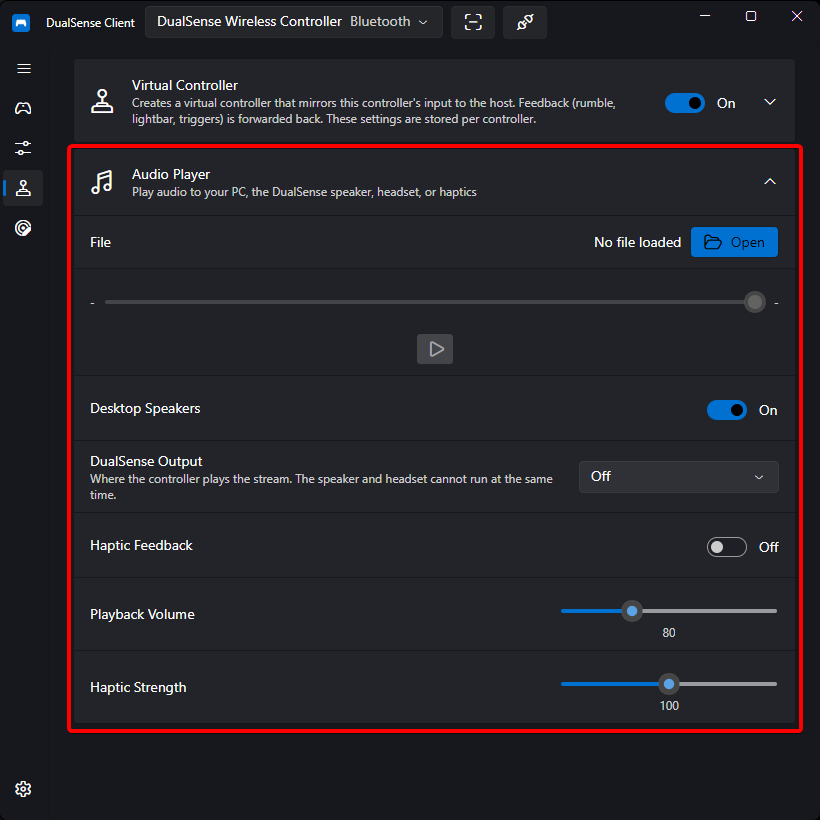
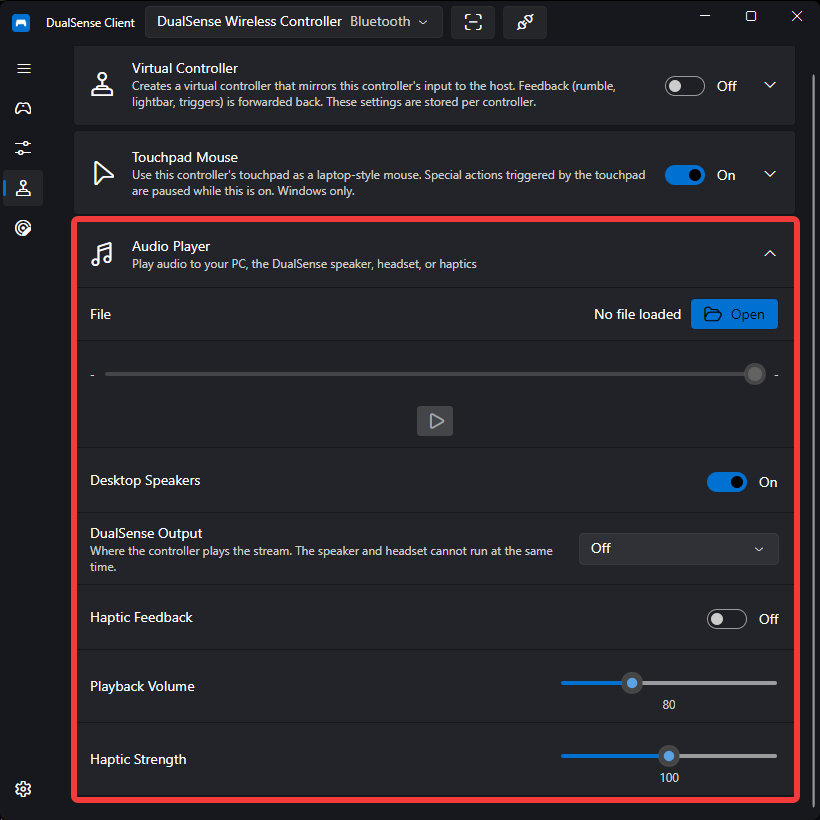
feat(emulation): Touchpad mouse settings UI and documentation
- Add a Windows-only expander with enable, pointer speed, scroll speed,
and natural scrolling, plus a short gesture hint.
- Read and write the selected controller's stored settings; save toggles
immediately and debounce slider writes, flushing on unload or controller
change.
- Clamp hand-edited speeds and refresh the bindings when the selected
controller changes.
- Add the localization strings, the mkdocs guide and nav entry, README
mention, and the Emulation-page screenshots.

diff --git a/source/DualSenseClient.GUI/ViewModels/Pages/EmulationPageViewModel.cs b/source/DualSenseClient.GUI/ViewModels/Pages/EmulationPageViewModel.cs
@@ -3,6 +3,7 @@ using System.Collections.Generic;
 using System.Collections.ObjectModel;
 using System.ComponentModel;
 using System.Linq;
+using Avalonia.Threading;
 using CommunityToolkit.Mvvm.ComponentModel;
 using CommunityToolkit.Mvvm.Input;
 using Microsoft.Extensions.DependencyInjection;
@@ -635,6 +636,196 @@ public partial class EmulationPageViewModel : ObservableObject
             return EmulationService.IsSupported
                    && (CurrentDualSenseDevice is not { } device || !_emulation.GetStatus(device).IsCreating);
         }
+    }
+
+    // ── Touchpad mouse ──────────────────────────────────────────
+
+    /// <summary>
+    /// Debounced touchpad mouse save timer: each speed slider change restarts it and the
+    /// save happens only after changes stop.
+    /// </summary>
+    private readonly DispatcherTimer _touchpadMouseSaveTimer;
+
+    /// <summary>
+    /// Whether a debounced touchpad mouse save is waiting for the timer to elapse.
+    /// </summary>
+    private bool _touchpadMouseSavePending;
+
+    /// <summary>
+    /// The touchpad-as-a-mouse settings stored for the selected controller. The returned
+    /// instance is the live stored object; mutating it and calling
+    /// <see cref="ControllerInfoService.SaveTouchpadMouseSettings(ControllerKey, TouchpadMouseSettings)"/>
+    /// persists the change.
+    /// </summary>
+    private TouchpadMouseSettings GetTouchpadMouseSettings()
+        => _controllerService.GetTouchpadMouseSettings(CurrentKey);
+
+    /// <summary>
+    /// Clamps a stored speed into the UI range and falls back to 1.0 for NaN, which
+    /// hand-edited settings can contain.
+    /// </summary>
+    private static double ClampTouchpadMouseSpeed(double value)
+        => double.IsNaN(value) ? 1.0 : Math.Clamp(value, 0.25, 3.0);
+
+    /// <summary>
+    /// Whether the touchpad mouse expander is offered: the feature is Windows-only and
+    /// needs a selected controller.
+    /// </summary>
+    public bool IsTouchpadMouseVisible
+    {
+        get
+        {
+            return HasDevice && OperatingSystem.IsWindows();
+        }
+    }
+
+    /// <summary>
+    /// Whether the selected controller's touchpad drives the pointer (two-way, persisted
+    /// immediately). Also enables the speed and scrolling options.
+    /// </summary>
+    public bool IsTouchpadMouseEnabled
+    {
+        get
+        {
+            return HasDevice && GetTouchpadMouseSettings().Enabled;
+        }
+        set
+        {
+            if (!HasDevice)
+            {
+                return;
+            }
+
+            TouchpadMouseSettings settings = GetTouchpadMouseSettings();
+            if (settings.Enabled == value)
+            {
+                return;
+            }
+
+            _log.Info($"Setting touchpad mouse of {CurrentMac} to {value}");
+            settings.Enabled = value;
+            _controllerService.SaveTouchpadMouseSettings(CurrentKey, settings);
+            OnPropertyChanged();
+            OnPropertyChanged(nameof(IsTouchpadMouseOptionsEnabled));
+        }
+    }
+
+    /// <summary>
+    /// Whether the pointer and scroll options may be changed: the touchpad mouse must be
+    /// enabled.
+    /// </summary>
+    public bool IsTouchpadMouseOptionsEnabled
+    {
+        get
+        {
+            return IsTouchpadMouseEnabled;
+        }
+    }
+
+    /// <summary>
+    /// The pointer speed multiplier of the selected controller (UI range 0.25–3.0,
+    /// persisted after the debounce). Writes the live settings and schedules the save.
+    /// </summary>
+    public double TouchpadMousePointerSpeed
+    {
+        get
+        {
+            return HasDevice ? ClampTouchpadMouseSpeed(GetTouchpadMouseSettings().PointerSpeed) : 1.0;
+        }
+        set
+        {
+            if (!HasDevice)
+            {
+                return;
+            }
+
+            GetTouchpadMouseSettings().PointerSpeed = ClampTouchpadMouseSpeed(value);
+            OnPropertyChanged();
+            ScheduleTouchpadMouseSave();
+        }
+    }
+
+    /// <summary>
+    /// The scroll speed multiplier of the selected controller (UI range 0.25–3.0,
+    /// persisted after the debounce). Writes the live settings and schedules the save.
+    /// </summary>
+    public double TouchpadMouseScrollSpeed
+    {
+        get
+        {
+            return HasDevice ? ClampTouchpadMouseSpeed(GetTouchpadMouseSettings().ScrollSpeed) : 1.0;
+        }
+        set
+        {
+            if (!HasDevice)
+            {
+                return;
+            }
+
+            GetTouchpadMouseSettings().ScrollSpeed = ClampTouchpadMouseSpeed(value);
+            OnPropertyChanged();
+            ScheduleTouchpadMouseSave();
+        }
+    }
+
+    /// <summary>
+    /// Whether two-finger scrolling follows the natural (touch) direction (two-way,
+    /// persisted immediately).
+    /// </summary>
+    public bool TouchpadMouseNaturalScrolling
+    {
+        get
+        {
+            return HasDevice && GetTouchpadMouseSettings().NaturalScrolling;
+        }
+        set
+        {
+            if (!HasDevice)
+            {
+                return;
+            }
+
+            TouchpadMouseSettings settings = GetTouchpadMouseSettings();
+            if (settings.NaturalScrolling == value)
+            {
+                return;
+            }
+
+            settings.NaturalScrolling = value;
+            _controllerService.SaveTouchpadMouseSettings(CurrentKey, settings);
+            OnPropertyChanged();
+        }
+    }
+
+    /// <summary>
+    /// Restarts the debounce timer so the pending touchpad mouse save is delayed until
+    /// slider changes stop, avoiding a disk write per drag step.
+    /// </summary>
+    private void ScheduleTouchpadMouseSave()
+    {
+        _touchpadMouseSavePending = true;
+        _touchpadMouseSaveTimer.Stop();
+        _touchpadMouseSaveTimer.Start();
+    }
+
+    /// <summary>
+    /// Persists a pending debounced touchpad mouse save immediately, e.g. when the page
+    /// unloads or the selected controller changes.
+    /// </summary>
+    public void FlushPendingTouchpadMouseSave()
+    {
+        if (!_touchpadMouseSavePending)
+        {
+            return;
+        }
+
+        if (HasDevice)
+        {
+            _controllerService.SaveTouchpadMouseSettings(CurrentKey, GetTouchpadMouseSettings());
+        }
+
+        _touchpadMouseSaveTimer.Stop();
+        _touchpadMouseSavePending = false;
     }
 
     // ── Button remapping ────────────────────────────────────────
@@ -1429,6 +1620,11 @@ public partial class EmulationPageViewModel : ObservableObject
             Skins.Add(skin);
         }
 
+        _touchpadMouseSaveTimer = new DispatcherTimer
+        {
+            Interval = TimeSpan.FromMilliseconds(400)
+        };
+        _touchpadMouseSaveTimer.Tick += (_, _) => FlushPendingTouchpadMouseSave();
         _emulation.StateChanged += OnEmulationStateChanged;
         _mainViewModel.PropertyChanged += OnMainViewModelPropertyChanged;
         UpdateDevice();
@@ -1463,6 +1659,7 @@ public partial class EmulationPageViewModel : ObservableObject
     /// </summary>
     private void UpdateDevice()
     {
+        FlushPendingTouchpadMouseSave();
         _previousItem?.Dispose();
         _previousMonitorState?.Dispose();
 
@@ -1511,5 +1708,11 @@ public partial class EmulationPageViewModel : ObservableObject
 
         OnPropertyChanged(nameof(EmulationStatusText));
         OnPropertyChanged(nameof(CanChangeEmulation));
+        OnPropertyChanged(nameof(IsTouchpadMouseVisible));
+        OnPropertyChanged(nameof(IsTouchpadMouseEnabled));
+        OnPropertyChanged(nameof(IsTouchpadMouseOptionsEnabled));
+        OnPropertyChanged(nameof(TouchpadMousePointerSpeed));
+        OnPropertyChanged(nameof(TouchpadMouseScrollSpeed));
+        OnPropertyChanged(nameof(TouchpadMouseNaturalScrolling));
     }
 }

diff --git a/source/DualSenseClient.GUI/Views/Pages/EmulationPage.axaml.cs b/source/DualSenseClient.GUI/Views/Pages/EmulationPage.axaml.cs
@@ -29,6 +29,19 @@ public partial class EmulationPage : UserControl
     {
         InitializeComponent();
         DataContext = App.Services.GetRequiredService<EmulationPageViewModel>();
+        Unloaded += OnUnloaded;
+    }
+
+    /// <summary>
+    /// Flushes a pending debounced touchpad mouse save when the page is navigated away
+    /// from before the debounce timer elapses.
+    /// </summary>
+    private void OnUnloaded(object? sender, RoutedEventArgs e)
+    {
+        if (DataContext is EmulationPageViewModel viewModel)
+        {
+            viewModel.FlushPendingTouchpadMouseSave();
+        }
     }
 
     /// <summary>

diff --git a/docs/guides/touchpad-mouse.md b/docs/guides/touchpad-mouse.md
@@ -1,0 +1,45 @@
+# Touchpad Mouse
+
+The DualSense touchpad can double as a **Windows mouse**, turning the controller into a laptop-style trackpad for browsing, media apps, and launchers when no mouse is within reach — especially handy when you are using the PC from a couch. One finger moves the pointer, taps click, and two-finger gestures right-click and scroll.
+
+!!! note
+    Touchpad Mouse is **Windows-only**. On Linux the section is hidden and the feature stays inactive; the desktop already receives the controller's touchpad through the system input stack.
+
+## Enabling It
+
+1. Connect your controller
+2. Open the **Emulation** page
+3. Expand **Touchpad Mouse**
+4. Turn on the switch in the expander footer
+
+Settings are stored **per controller** and applied automatically whenever that controller connects. The feature works whether or not a virtual controller is active, and keeps working while the app is in the background.
+
+The options below the switch stay disabled until the feature is on:
+
+| Option                | Range      | Description                                                                                                            |
+| --------------------- | ---------- | ---------------------------------------------------------------------------------------------------------------------- |
+| **Pointer speed**     | 0.25 – 3.0 | How far the pointer moves for a given finger movement.                                                                 |
+| **Scroll speed**      | 0.25 – 3.0 | How far the page scrolls for a given two-finger movement.                                                              |
+| **Natural scrolling** | on/off     | Move two fingers down to move the content down, like a touchscreen. Off uses the standard Windows scrolling direction. |
+
+## Gestures
+
+| Gesture          | Action                                             |
+| ---------------- | -------------------------------------------------- |
+| One-finger slide | Moves the Windows pointer                          |
+| One-finger tap   | Left click                                         |
+| Touchpad press   | Left click — hold the button down and move to drag |
+| Two-finger tap   | Right click                                        |
+| Two-finger slide | Scrolls vertically and horizontally                |
+
+A tap is a quick touch and lift; sliding a finger only moves the pointer and does not click. While two fingers are on the touchpad the pointer stays still, and a two-finger slide scrolls instead. A physical press clicks immediately, and keeping it held while you move drags.
+
+## Touchpad Special Actions
+
+While the touchpad drives the mouse for a controller, that controller's **touchpad-triggered special actions are paused**: swipe gestures and button combinations that include the touchpad button do not fire. Other button combinations keep working. Turning the feature off restores them. See [Special Actions](special-actions.md).
+
+## Limitations
+
+- **Elevated windows (UIPI)** — Windows blocks injected input from reaching apps running as administrator, so the pointer and clicks cannot reach an elevated window. If an elevated window takes focus in the middle of a drag, the button release can be blocked as well.
+- **Windows pointer settings** — the injected movement goes through the Windows mouse speed and pointer-acceleration settings; the app's **Pointer speed** slider scales on top of them. If the pointer feels faster or slower than expected, check the Windows mouse settings.
+- **Raw-input games** — games that read raw mouse input, including many first-person shooters, do not see the injected movement. Use the touchpad mouse for desktop navigation and couch use, not for game aiming.

diff --git a/README.md b/README.md
@@ -94,6 +94,7 @@ DualSense Client
 - Per-controller emulation settings applied on connection, adjustable from the **Emulation** page or the tray menu (currently Windows-only)
 - DualSense output exposes haptics, adaptive triggers, and audio interfaces to the host; host audio can be forwarded to the physical controller's speaker or headset with volume and haptic-strength controls
 - Choose the forwarded audio source: virtual controller audio, system-output loopback, or a specific application (Windows 11)
+- Use the DualSense touchpad as a Windows mouse (pointer, tap-to-click, two-finger right-click and scrolling)
 - Powered by the built-in **Emulation** engine, which only requires the USB/IP driver on the host system
 
 ### Controller Hiding
